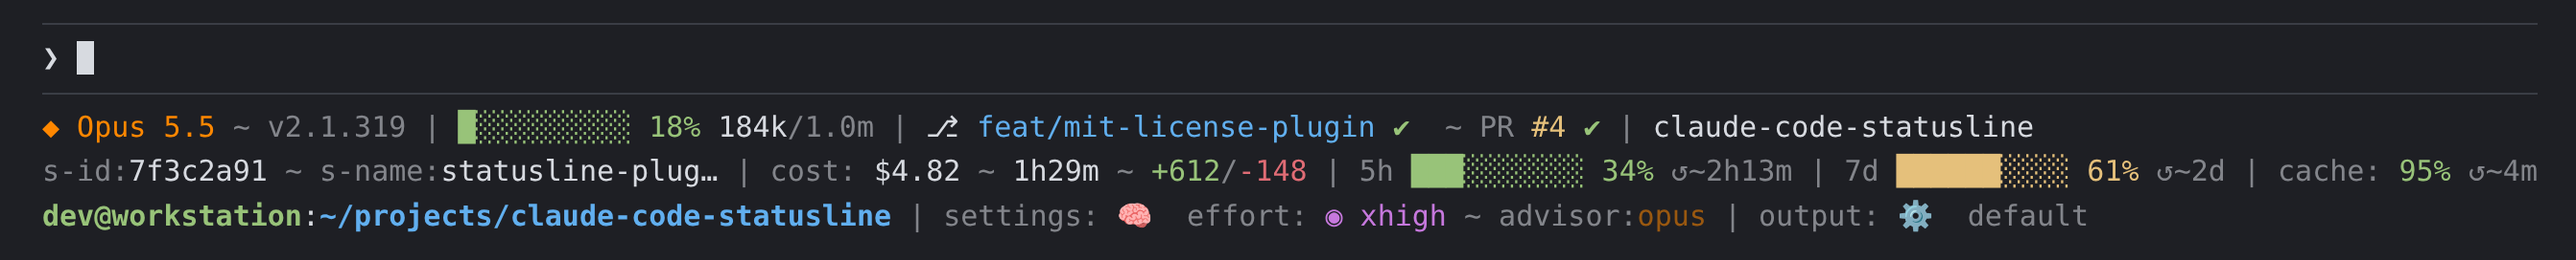
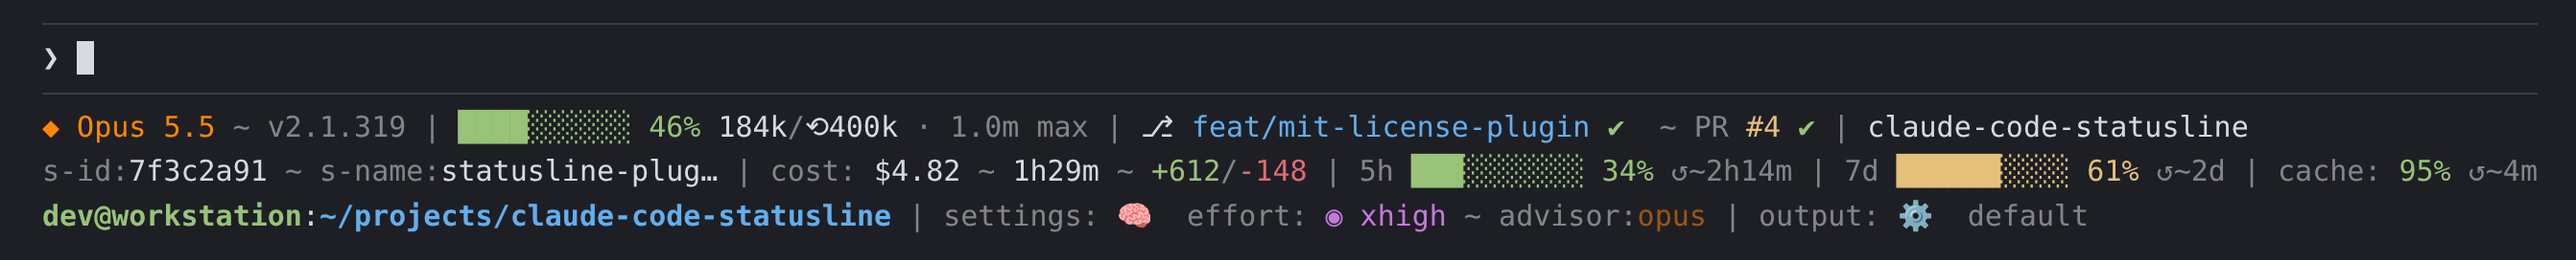
feat: hide/show sections with one command; settings survive updates
- statusline.sh --hide/--show/--lines/--list/--reset write
  ~/.claude/statusline.conf (parsed strictly, never sourced). Before,
  hiding meant editing SHOW_* in the installed script, and every update
  erased it.
- Plugin skill /adaptive-statusline:configure runs these commands and
  is model-invocable, so "hide the cost section" works in plain words.
- install.sh records an explicit -l in the conf; a plain -y update keeps
  the user's saved line mode. 17 tests incl. a hostile conf file.
- README/docs: one-command customization; screenshot shows the
  auto-compact limit.

diff --git a/docs/configuration.md b/docs/configuration.md
@@ -1,59 +1,65 @@
 # Configuration
 
-All configuration is done by editing the top of `~/.claude/statusline.sh`.
+Day-to-day settings (which sections show, how many lines) live in `~/.claude/statusline.conf`. Reinstalls and plugin
+updates replace `~/.claude/statusline.sh` but never touch this file. Don't edit the script's `SHOW_*` lines for
+this: an update would undo it.
+
+## Hide or Show Sections
+
+```bash
+bash ~/.claude/statusline.sh --hide cost,rate-limits   # comma or space separated
+bash ~/.claude/statusline.sh --show cost
+bash ~/.claude/statusline.sh --list
+bash ~/.claude/statusline.sh --reset
+```
+
+With the plugin installed, ask Claude ("hide the cost section of my statusline") or run
+`/adaptive-statusline:configure hide cost`. Both run the commands above.
+
+| Section | Hides | Flag in the file |
+|---------|-------|------------------|
+| `model` | model name | `SHOW_MODEL` |
+| `tokens` | context bar and token counts | `SHOW_TOKENS` |
+| `git` | branch, dirty state, ahead/behind | `SHOW_GIT` |
+| `folder` | folder name on L1 | `SHOW_FOLDER` |
+| `thinking` | thinking + effort block | `SHOW_THINKING` |
+| `effort` | effort level | `SHOW_EFFORT` |
+| `output-style` | output style | `SHOW_OUTPUT_STYLE` |
+| `caveman` | caveman mode badge | `SHOW_CAVEMAN` |
+| `agent` | agent name | `SHOW_AGENT` |
+| `advisor` | advisor model | `SHOW_ADVISOR` |
+| `vim-mode` | vim mode | `SHOW_VIM_MODE` |
+| `version` | Claude Code version | `SHOW_VERSION` |
+| `session-id` | session ID | `SHOW_SESSION_ID` |
+| `session-name` | session name | `SHOW_SESSION_NAME` |
+| `cost` | cost, duration, lines changed | `SHOW_COST_GROUP` |
+| `rate-limits` | 5h / 7d bars | `SHOW_RATE_LIMITS` |
+| `worktree` | worktree row | `SHOW_WORKTREE` |
+| `pr` | PR / MR badge | `SHOW_PR` |
+| `fast` | fast-mode ⚡ badge | `SHOW_FAST` |
+| `cache` | prompt-cache badge | `SHOW_CACHE` |
+| `spend` | gateway spend meter | `SHOW_SPEND` |
+| `cwd-path` | `user@host:path` | `SHOW_CWD_PATH` |
+| `clickable-links` | OSC 8 links | `SHOW_CLICKABLE_LINKS` |
 
 ## Line Count
 
 ```bash
-STATUSLINE_LINES="${STATUSLINE_LINES:-3}"  # 1, 2, or 3
+bash ~/.claude/statusline.sh --lines 2   # saved; 1, 2 or 3
+STATUSLINE_LINES=1 claude                # one session only; the env var beats the file
 ```
 
-Override at runtime:
+## The Settings File
 
-```bash
-STATUSLINE_LINES=2 claude
+`~/.claude/statusline.conf` (move it with `STATUSLINE_CONF=/path`) is plain `KEY=value`:
+
+```
+STATUSLINE_LINES=2
+SHOW_COST_GROUP=false
 ```
 
-Or set permanently in `~/.claude/settings.json`:
-
-```json
-{
-  "statusLine": {
-    "type": "command",
-    "command": "STATUSLINE_LINES=2 bash ~/.claude/statusline.sh"
-  }
-}
-```
-
-## Feature Toggles
-
-Set any to `false` to hide:
-
-```bash
-SHOW_MODEL=true
-SHOW_TOKENS=true
-SHOW_GIT=true
-SHOW_FOLDER=true
-SHOW_THINKING=true      # thinking + effort combined block
-SHOW_EFFORT=true        # part of thinking+effort block
-SHOW_OUTPUT_STYLE=true
-SHOW_CAVEMAN=true
-SHOW_AGENT=true
-SHOW_ADVISOR=true
-SHOW_VIM_MODE=true
-SHOW_VERSION=true
-SHOW_SESSION_ID=true
-SHOW_SESSION_NAME=true
-SHOW_COST_GROUP=true
-SHOW_RATE_LIMITS=true
-SHOW_WORKTREE=true
-SHOW_PR=true
-SHOW_FAST=true         # ⚡ badge while fast mode is on
-SHOW_CACHE=true        # prompt-cache warm/cold badge (L2, full tier only)
-SHOW_SPEND=true        # gateway spend-limit meter (only present behind a gateway)
-SHOW_CWD_PATH=true     # user@host:~/project ▸subdir on the host row (project path + drift marker)
-SHOW_CLICKABLE_LINKS=true
-```
+It is parsed strictly and never executed. Only `SHOW_<known flag>=true|false` and `STATUSLINE_LINES=1|2|3` take
+effect; any other line is ignored.
 
 ## Advanced Configuration
 

diff --git a/README.md b/README.md
@@ -4,7 +4,7 @@ A multi-line, adaptive-width status line for Claude Code with configurable eleme
 
 ![Claude Code Statusline screenshot](docs/screenshot.png)
 
-<sub>3-line mode at 150 columns, rendered by `statusline.sh` from a sample Claude Code payload.</sub>
+<sub>3-line mode at 150 columns with a 400k auto-compact limit (`⟲400k`), rendered by `statusline.sh` from a sample Claude Code payload.</sub>
 
 ## What You Get
 
@@ -37,7 +37,7 @@ In Claude Code:
 Plugins cannot set `statusLine` themselves, so `/adaptive-statusline:install` runs `install.sh`. It asks for the line
 mode, asks before replacing another tool's statusline, and copies the script to `~/.claude/statusline.sh`.
 After `/plugin update`, run `/adaptive-statusline:install` again: the installed copy does not update itself.
-`/adaptive-statusline:uninstall` removes it.
+`/adaptive-statusline:configure` hides or shows sections (or just ask Claude), and `/adaptive-statusline:uninstall` removes it.
 
 ### Setup via Claude Code Prompt
 
@@ -50,15 +50,25 @@ Please check https://github.com/phorvicheka/claude-code-statusline, read the REA
 > **Already have the repo locally?** Use:
 > `Please read the README.md in this directory and follow the install steps.`
 
-**Customize elements** -- toggle visibility of any statusline element:
+**Hide or show sections**: ask Claude in plain words, or run the command yourself. Settings are saved to
+`~/.claude/statusline.conf`, so reinstalls and plugin updates keep them.
 
 ```
-In my Claude Code statusline at ~/.claude/statusline.sh, set SHOW_<ELEMENT>=false for: <elements to hide>. Leave all others as true. The toggle flags are at the top of the file.
+hide the cost and rate limit parts of my statusline        # plain request (plugin installed)
+/adaptive-statusline:configure hide cost,rate-limits       # the same, as a slash command
 ```
 
-> Example: `...set SHOW_COST_GROUP=false and SHOW_OUTPUT_STYLE=false for: cost group, output style...`
->
-> Available elements: `MODEL`, `TOKENS`, `GIT`, `FOLDER`, `THINKING`, `EFFORT`, `OUTPUT_STYLE`, `CAVEMAN`, `AGENT`, `ADVISOR`, `VIM_MODE`, `VERSION`, `SESSION_ID`, `SESSION_NAME`, `COST_GROUP`, `RATE_LIMITS`, `WORKTREE`, `PR`, `FAST`, `CACHE`, `SPEND`, `CWD_PATH`, `CLICKABLE_LINKS`
+```bash
+bash ~/.claude/statusline.sh --hide cost,rate-limits   # hide
+bash ~/.claude/statusline.sh --show cost               # show again
+bash ~/.claude/statusline.sh --lines 2                 # 1, 2 or 3 lines
+bash ~/.claude/statusline.sh --list                    # what is on or off
+bash ~/.claude/statusline.sh --reset                   # everything back
+```
+
+> Sections: `model`, `tokens`, `git`, `folder`, `thinking`, `effort`, `output-style`, `caveman`, `agent`,
+> `advisor`, `vim-mode`, `version`, `session-id`, `session-name`, `cost`, `rate-limits`, `worktree`, `pr`, `fast`,
+> `cache`, `spend`, `cwd-path`, `clickable-links`. Changes show on the next refresh; no restart needed.
 
 **Uninstall**:
 
@@ -141,7 +151,7 @@ Claude Code may send working directory paths with backslashes on Windows. The st
 
 ## Configuration
 
-See [Configuration Guide](docs/configuration.md) for line count, feature toggles, sizing, and width tiers.
+Hide sections and set the line mode with `bash ~/.claude/statusline.sh --hide/--show/--lines` (see [Quick Install](#quick-install)). See the [Configuration Guide](docs/configuration.md) for the settings file, sizing and width tiers.
 
 ## Statusline Anatomy
 

diff --git a/CHANGELOG.md b/CHANGELOG.md
@@ -13,6 +13,11 @@ Format follows [Keep a Changelog](https://keepachangelog.com/en/1.1.0/).
   `adaptive-statusline`. Skills `/adaptive-statusline:install` and `:uninstall` run the bundled scripts, because plugins
   cannot set `statusLine`. The script still lands at `~/.claude/statusline.sh`, since the plugin directory changes
   on every update.
+- **Hide sections with one command; settings survive updates.** `bash ~/.claude/statusline.sh --hide cost,rate-limits`
+  (also `--show`, `--lines`, `--list`, `--reset`) writes `~/.claude/statusline.conf`, which reinstalls and plugin
+  updates never touch. Before, hiding meant editing `SHOW_*` lines in the installed script, and every update erased
+  them. The file is parsed strictly, never sourced. The plugin skill `/adaptive-statusline:configure` runs these
+  commands, and Claude also picks it for plain requests ("hide the cost section of my statusline").
 - `install.sh -l 1|2|3` picks the line mode without a prompt. `uninstall.sh -y` runs without a prompt and restores
   the newest backup. Both are needed where there is no TTY, such as Claude's Bash tool.
 
@@ -39,8 +44,8 @@ Format follows [Keep a Changelog](https://keepachangelog.com/en/1.1.0/).
   `bash tests/ci.sh --fresh` runs the same check locally on a fresh clone of HEAD.
 - `tests/run.sh`: `SUT_BASH` picks the interpreter for the shipped scripts; a static portability lint; BSD `stat`
   and macOS locale fallbacks; Windows-only SKIPs (symlinks, POSIX modes) are counted and printed, never passed.
-- **README screenshot re-rendered** from the current `statusline.sh` (Opus 5.5, v2.1.319, 3-line layout, PR badge,
-  5h/7d bars, prompt cache, settings and output groups). The old one showed the April layout (Sonnet 4.6, v2.1.97).
+- **README screenshot re-rendered** from the current `statusline.sh` (Opus 5.5, v2.1.319, 3-line layout, auto-compact
+  limit `⟲400k`, PR badge, 5h/7d bars, prompt cache, settings and output groups). The old one showed the April layout (Sonnet 4.6, v2.1.97).
 - Requirements: bash 3.2+ (was 4+); `gh` dropped from the list (the PR badge uses Claude Code's JSON).
 - `.claude/settings.local.json` and `.codex` are no longer tracked; `.gitignore` added (also ignores `.tmp/`).
   Before, a personal permission allowlist was copied into every plugin install.

diff --git a/skills/configure/SKILL.md b/skills/configure/SKILL.md
@@ -1,0 +1,23 @@
+---
+name: configure
+description: Hide or show sections of the adaptive statusline (cost, rate limits, PR, cache, git, model, ...) or change its line mode. Use when the user asks to hide, remove, show, bring back, or list statusline sections, or to switch between 1, 2 and 3 lines.
+---
+
+# Configure the adaptive statusline
+
+Settings are saved to `~/.claude/statusline.conf`, so they survive reinstalls and plugin updates. Never edit
+`~/.claude/statusline.sh` itself: updates overwrite it.
+
+1. Check that `~/.claude/statusline.sh` exists. If it does not, tell the user to run `/adaptive-statusline:install`
+   first, and stop.
+2. Map the user's words to section names. Run `bash ~/.claude/statusline.sh --help` for the list. Common ones:
+   `cost` (cost, duration, lines changed), `rate-limits` (5h/7d), `pr`, `cache`, `git`, `model`, `tokens`
+   (context bar), `version`, `session-id`, `session-name`, `cwd-path`, `worktree`, `advisor`, `effort`,
+   `output-style`. If a word matches no section, show the list and ask.
+3. Run the matching command:
+   - Hide: `bash ~/.claude/statusline.sh --hide <a,b>`
+   - Show again: `bash ~/.claude/statusline.sh --show <a,b>`
+   - Line mode: `bash ~/.claude/statusline.sh --lines <1|2|3>`
+   - Show all, default line mode: `bash ~/.claude/statusline.sh --reset`
+   - Current state: `bash ~/.claude/statusline.sh --list`
+4. Report the command's output line. The change appears on the next statusline refresh; no restart is needed.
